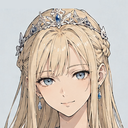
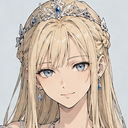
第6話の顔グラを名前の札の下から切り直す（札を塗りつぶして髪や冠が平らに欠けて見えていたのを直す）
Claude-Session: https://claude.ai/code/session_01AR1wXjuAR5sE8Te44vnUbP

diff --git a/tools/faces_e6.py b/tools/faces_e6.py
@@ -1,9 +1,11 @@
 from PIL import Image, ImageDraw
-# 第6話の顔グラ（docs/ref/empire-06-faces-a.png・-b.png）の切り抜き。名前の札をパネルの背景色で塗ってから、128×128 に縮小して assets/faces に書く
+# 第6話の顔グラ（docs/ref/empire-06-faces-a.png・-b.png）の切り抜き。名前の札の下から切り、128×128 に縮小して assets/faces に書く
 S='assets/faces/'
 TAG={'a':[(18,175),(398,645),(780,990),(1160,1240)],'b':[(18,270),(398,660),(780,995),(1160,1340)]}
-C={'a':{'emperor':(30,150,330,450),'marianne':(420,150,720,450),'lidia':(800,150,1100,450),'werner':(1185,166,1455,436)},
-   'b':{'felix':(60,150,340,430),'guard':(430,150,710,430),'assassin':(805,150,1095,440),'zarg':(1170,150,1470,450)}}
+# 名前の札の下（y=170〜）から切る。札を塗りつぶすと、札にかかった髪や冠が平らに欠けて見えるため（ユーザーの指摘）。
+# 頭の上は絵のふちでそろって切れるので、顔グラの枠に合わせて自然に見える
+C={'a':{'emperor':(30,170,330,470),'marianne':(420,170,720,470),'lidia':(800,170,1100,470),'werner':(1185,170,1455,440)},
+   'b':{'felix':(60,170,340,450),'guard':(430,170,710,450),'assassin':(805,170,1095,460),'zarg':(1170,170,1470,470)}}
 sheet=Image.new('RGB',(138*8,148),'white');i=0
 for f,d in C.items():
   im=Image.open(f'docs/ref/empire-06-faces-{f}.png').convert('RGB');dr=ImageDraw.Draw(im)

diff --git a/CLAUDE.md b/CLAUDE.md
@@ -31,7 +31,7 @@
   - 第2話のボス・グラウヴォルフの絵は `python3 tools/graywolf.py`（元の絵の背景はマゼンタ一色。戦闘用の大きい絵は大鉈とガトリング砲で横に長いので、戦闘画面では横幅でなく高さで大きさを決める＝`BIG_BY_H`）。
   - 別の機体の画像を使うときは TPL に `spr:'zekt'` のように書く（中隊と盗賊のゼクト・ゴルム）。`tint` で色を重ねられ、`spr:false` は画像なし（図形で描く）。待機・歩行・攻撃の絵がある機体は `SPR_EXTRA`。
 - ステータス画面の機体の絵は、顔グラと同じくらいの大きさ（88px）で、背景を抜いた戦闘用の絵を出す（大きく出さない。ユーザーの希望）。別の機体の画像を使う機体（`spr`）はそのファイルを使う（`sprFile`）。
-- パイロットの顔グラは `assets/faces/<名前>.png`（128×128）。設定画（`empire-01-sheet.png`・`empire-01-faces.png`・`empire-02-faces.png`・`empire-03-faces.png`・`empire-04-faces.png`・`empire-05-faces.png`・`empire-06-faces-a.png`・`empire-06-faces-b.png`・`empire-07-faces.png`・`setting-sheet.png`）の人物画から切り抜いたもの（128×128 に縮小。名前の札やパネルの枠が入らないように切る）。`FACE`（名前→ファイル名）で引き、戦闘画面・会話・ステータス画面に出す。起動時に全員分を先読みし（`FACE_IMG`）、読み込みが終わっていない顔は表示しない（前の人の顔が残って見えるのを防ぐ）。新しいキャラは設定画から切り抜いて `FACE` に足す。
+- パイロットの顔グラは `assets/faces/<名前>.png`（128×128）。設定画（`empire-01-sheet.png`・`empire-01-faces.png`・`empire-02-faces.png`・`empire-03-faces.png`・`empire-04-faces.png`・`empire-05-faces.png`・`empire-06-faces-a.png`・`empire-06-faces-b.png`・`empire-07-faces.png`・`setting-sheet.png`）の人物画から切り抜いたもの（128×128 に縮小。名前の札やパネルの枠が入らないように切る。札に頭がかかっているときは、札を塗りつぶさず札の下から切る＝頭の上が絵のふちでそろって切れる。塗りつぶすと髪や冠が平らに欠けて見えるため。ユーザーの指摘。`tools/faces_e6.py`・`faces_e7.py`）。`FACE`（名前→ファイル名）で引き、戦闘画面・会話・ステータス画面に出す。起動時に全員分を先読みし（`FACE_IMG`）、読み込みが終わっていない顔は表示しない（前の人の顔が残って見えるのを防ぐ）。新しいキャラは設定画から切り抜いて `FACE` に足す。
 - 会話の背景画は `assets/bg/<名前>.jpg`（縦長、スマホ縦画面向け）。`BG`（名前→ファイル）に登録し、会話の行に `bg:'hq'` と書くとその行から背景が変わる（マップを隠す solid の会話だけ。マップの上の会話でも、行に `solid:1` を書けばその行だけマップを隠して背景を出せる。ステージに `startSolid:true` を書くと、開始時の会話はすべてマップを隠して背景画のまま話し、話が終わってからマップを出す（帝国編第1話。リンデ村の背景のまま。ユーザーの希望）。行に `onmap:1` を書くとその行はマップを見せる（帝国編第1話の最後の「作戦目標」の行））。文字枠は背景のあるなしにかかわらず画面の上に置く（下だと読みにくい。ユーザーの希望）。マップの上の会話（solid でない行）は画面を暗くせず、マップをそのまま見せる（`#dialog.onmap`。ユーザーの希望）。`BG` にない名前は無地。帝国編第1話は map（大陸の地図。冒頭のナレーション。`BG_WHOLE` に入れてあり、端を切らずに全体を表示。縦向きは文字枠の下の空いたところに収め（文字枠の高さは132pxで見込むので、行ごとに地図が動かない）、横向きは地図を左・文字枠を右に並べる（`layout()`）。画像の大きさは `BG_SIZE`）・hq（司令部）・hangar（格納庫）・linde（襲撃直後のリンデ村。焼け跡があるのでほかの村には使わない）。第6話からの背景：pass（峠道）・pass_night（峠道の夜。`python3 tools/night_bg.py <元> <出力>` で昼の絵から作る）・gate（帝都の城門）・hall（宮殿の大広間）・garden（後宮の庭園）。第7話からの背景：records（軍務省の記録局）・scribe（宮廷の書記官室）・marshal（元帥府の執務室。壁の地図は `python3 tools/marshal_map.py` でこのゲームの大陸の地図に貼り替えたもの）・warehouse（帝都の外れの兵站倉庫・夕方）・cell（牢）。
 - 会話の行に `music:'player'` と書くと、その行から曲が変わる（どの話も「作戦目標」（勝利条件）の行で味方フェイズの曲に切り替える。ユーザーの希望）。
 - 会話ログ：流れた会話は `DLG_LOG` に残り、会話中の「ログ」ボタンと設定の「会話ログ」で読み返せる（`showLog`。話を始めるとき・つづきから再開するときに空にする）。

diff --git a/docs/prompts/empire-06-chara.md b/docs/prompts/empire-06-chara.md
@@ -1,6 +1,6 @@
 # 帝国編 第6話「鉄の護送」 キャラ（顔グラ）の指示文
 
-> できあがり：`docs/ref/empire-06-faces-a.png`（皇帝・マリアンネ・リディア・ヴェルナ）・`docs/ref/empire-06-faces-b.png`（フェリクス・近衛の小隊長・刺客の頭・ザルグ）→ `assets/faces/emperor.png`・`marianne.png`・`lidia.png`・`werner.png`・`felix.png`・`guard.png`・`assassin.png`・`zarg.png`（全員使う。ザルグは番外編用の絵から描き直し。名前の札をパネルの背景色で塗ってから切った。`python3 tools/faces_e6.py`）
+> できあがり：`docs/ref/empire-06-faces-a.png`（皇帝・マリアンネ・リディア・ヴェルナ）・`docs/ref/empire-06-faces-b.png`（フェリクス・近衛の小隊長・刺客の頭・ザルグ）→ `assets/faces/emperor.png`・`marianne.png`・`lidia.png`・`werner.png`・`felix.png`・`guard.png`・`assassin.png`・`zarg.png`（全員使う。ザルグは番外編用の絵から描き直し。名前の札に頭がかかるので、札の下から切った＝頭の上は絵のふちで切れる。札を塗りつぶすと髪が平らに欠けて見えるため。`python3 tools/faces_e6.py`）
 
 添付：`docs/ref/empire-05-faces.png`（第5話の顔グラの資料。この形式で描くと絵柄がそろう）
 切り抜きはこちらでするので、資料の文字やパネルはあってよい。
